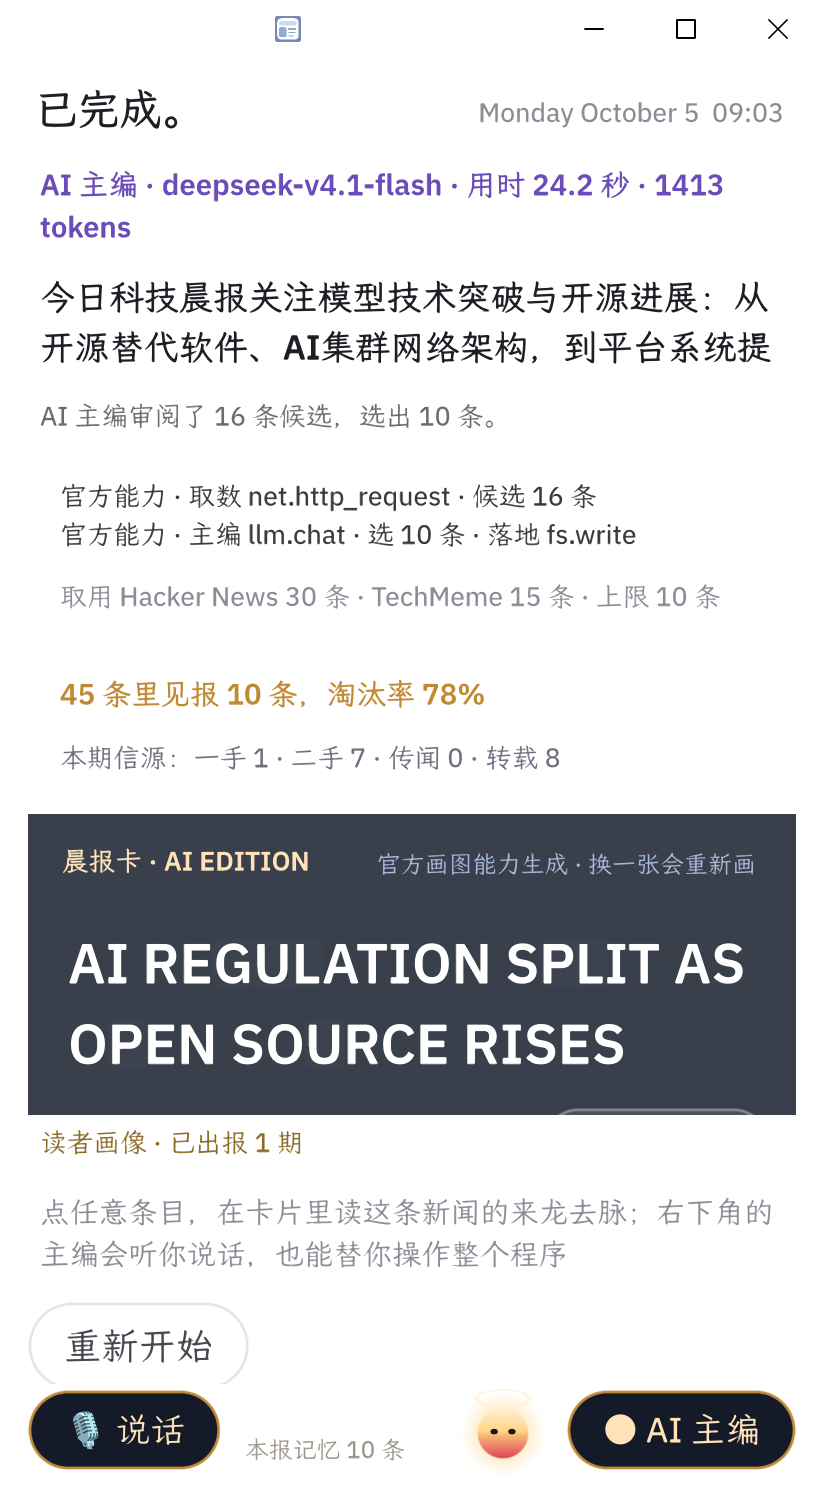
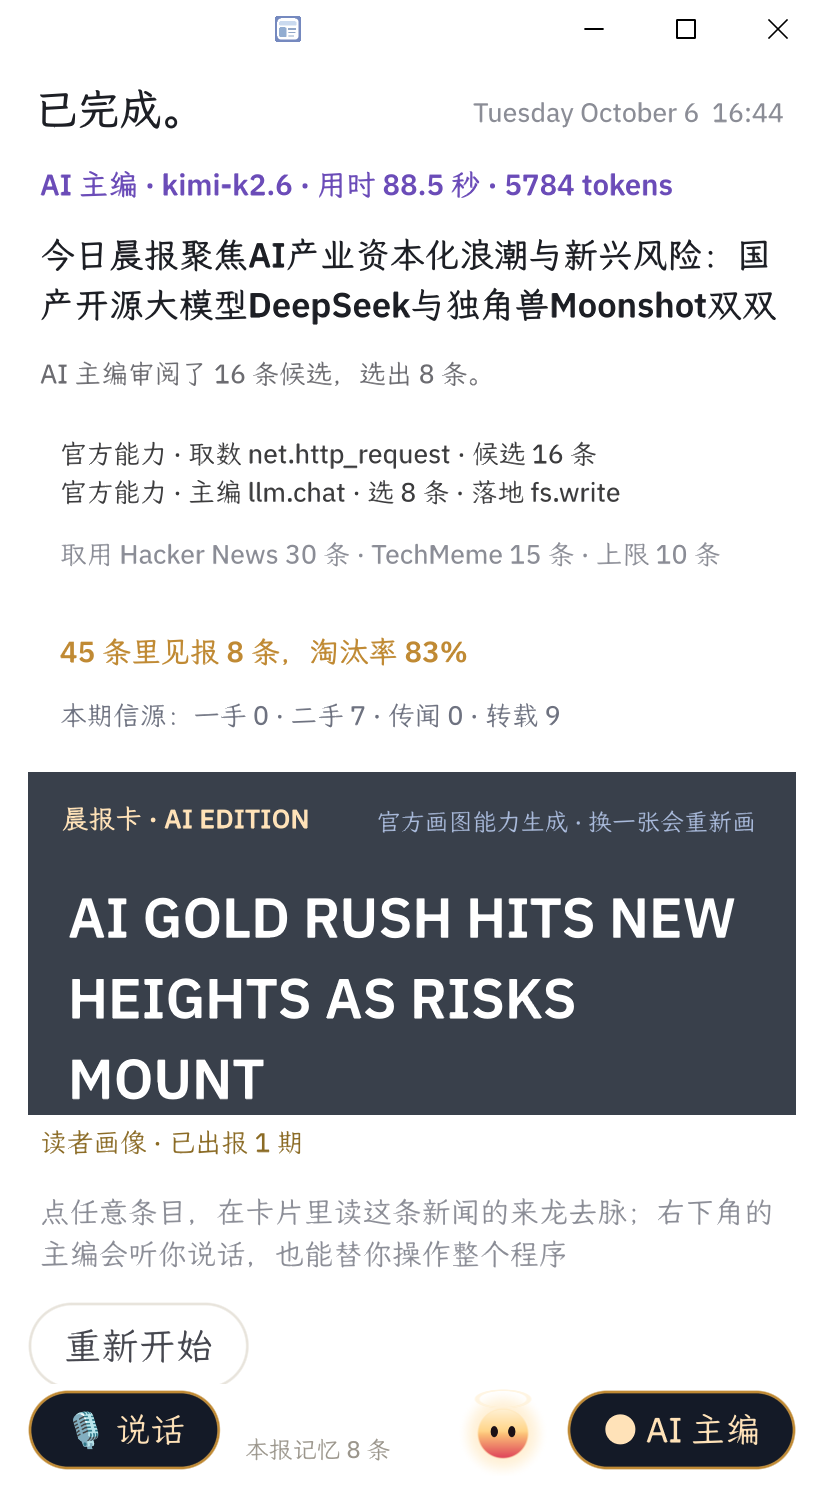
初赛收口：提交文件夹与主版本完全同步 + 标注权威位置
- 初赛提交材料/bundle/ 与 my-entry/morning-brief/bundle/ 完全一致
  （含最新的 main.splash / manifest 摘要 / 03-done 截图）
- README 说明：权威位置是 my-entry/...（被 hub check 校验、被宿主加载的那份），
  提交文件夹里的是同内容副本，方便单独取用
- 两份 bundle 均通过 hub check --allow-unsigned

Changed region(s): [[0.0303, 0.0625, 0.9709, 0.75], [0.4248, 0.9375, 0.4854, 0.9688], [0.182, 0.0938, 0.2427, 0.125]]

diff --git a/初赛提交材料/README-初赛提交说明.md b/初赛提交材料/README-初赛提交说明.md
@@ -35,11 +35,16 @@
 
 **OctoSense App Hub 卡片包**（OctoScript 应用）。
 
-- 程序：`bundle/main.splash`（唯一的程序文件，OctoScript / splash 脚本）
-- 清单：`bundle/manifest.json`
-- 上架信息：`bundle/listing.json`
-- 图标：`bundle/assets/icon.svg`
-- 截图：`bundle/screenshots/`（4 张实机捕获）
+**权威位置**：`my-entry/morning-brief/bundle/`（这是被 `hub check` 校验、被宿主加载的那一份）
+**本文件夹的副本**：`初赛提交材料/bundle/`（内容与上面完全一致，方便单独取用）
+
+| 文件 | 说明 |
+| --- | --- |
+| `main.splash` | 唯一的程序文件（OctoScript / splash 脚本，约 4800 行） |
+| `manifest.json` | 清单：id / 版本 / 能力 / 网络白名单 / bundle 摘要 |
+| `listing.json` | 上架信息：副标题 / 描述 / 关键词 / 截图 / 发布者 |
+| `assets/icon.svg` | 图标 |
+| `screenshots/` | 4 张实机捕获的截图 |
 
 ### 3.2 运行环境
 
